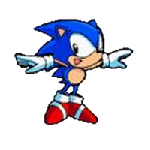
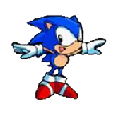
+ novos assets e começo da moedas

Changed region(s): [[0.075, 0.125, 0.9, 0.85], [0.475, 0.2, 0.55, 0.225], [0.45, 0.225, 0.475, 0.25]]

diff --git a/core/src/com/mygdx/game/MyGdxGame.java b/core/src/com/mygdx/game/MyGdxGame.java
@@ -29,9 +29,13 @@ public class MyGdxGame extends ApplicationAdapter {
 	private Texture canoBaixo;
 	private Texture canoTopo;
 	private Texture gameOver;
+	private Texture moedaOuro;
+	private Texture moedaPrata;
 
 	private ShapeRenderer shapeRenderer;
 	private Circle circuloPassaro;
+	private Circle circuloMoedaOuro;
+	private Circle circuloMoedaPrata;
 	private Rectangle retanguloCanoCima;
 	private Rectangle retanguloCanoBaixo;
 
@@ -42,6 +46,10 @@ public class MyGdxGame extends ApplicationAdapter {
 	private float posicaoInicialVerticalPassaro;
 	private float posicaoCanoHorizontal;
 	private float posicaoCanoVertical;
+	private float posicaoMoedaOuroHorizontal;
+	private float posicaoMoedaOuroVertical;
+	private float posicaoMoedaPrataHorizontal;
+	private float posicaoMoedaPrataVertical;
 	private float espacoEntreCanos;
 	private Random random;
 	private int pontos = 0;
@@ -90,9 +98,11 @@ public class MyGdxGame extends ApplicationAdapter {
 		sonic[2] = new Texture("sonic3.png");
 
 		fundo = new Texture("fundo_sonic.png");
-		canoBaixo = new Texture("cano_baixo_maior.png");
-		canoTopo = new Texture("cano_topo_maior.png");
+		canoBaixo = new Texture("c_baixo_maior.png");
+		canoTopo = new Texture("c_topo_maior.png");
 		gameOver = new Texture("game_over.png");
+		moedaOuro = new Texture("moeda_ouro.png");
+		moedaPrata = new Texture("moeda_prata.png");
 	}
 
 	private void inicializaObjetos(){
@@ -120,6 +130,8 @@ public class MyGdxGame extends ApplicationAdapter {
 
 		shapeRenderer = new ShapeRenderer();
 		circuloPassaro = new Circle();
+		circuloMoedaOuro = new Circle();
+		circuloMoedaPrata = new Circle();
 		retanguloCanoBaixo = new Rectangle();
 		retanguloCanoCima = new Rectangle();
 
@@ -184,6 +196,22 @@ public class MyGdxGame extends ApplicationAdapter {
 				50 + posicaoHorizontalPassaro + sonic[0].getWidth() / 2,
 				posicaoInicialVerticalPassaro + sonic[0].getHeight() / 2,
 				sonic[0] .getWidth() / 2
+
+		);
+
+		circuloMoedaOuro.set(
+				posicaoMoedaOuroHorizontal+moedaOuro.getWidth()/2,
+				alturaDispositivo / 2 + moedaOuro.getHeight()/2 + posicaoMoedaOuroVertical,
+				moedaOuro.getHeight()/2
+
+
+		);
+
+		circuloMoedaPrata.set(
+				posicaoMoedaPrataHorizontal+moedaPrata.getWidth()/2,
+				alturaDispositivo / 2 + moedaPrata.getHeight()/2 + posicaoMoedaPrataVertical,
+				moedaPrata.getHeight()/2
+
 
 		);
 
